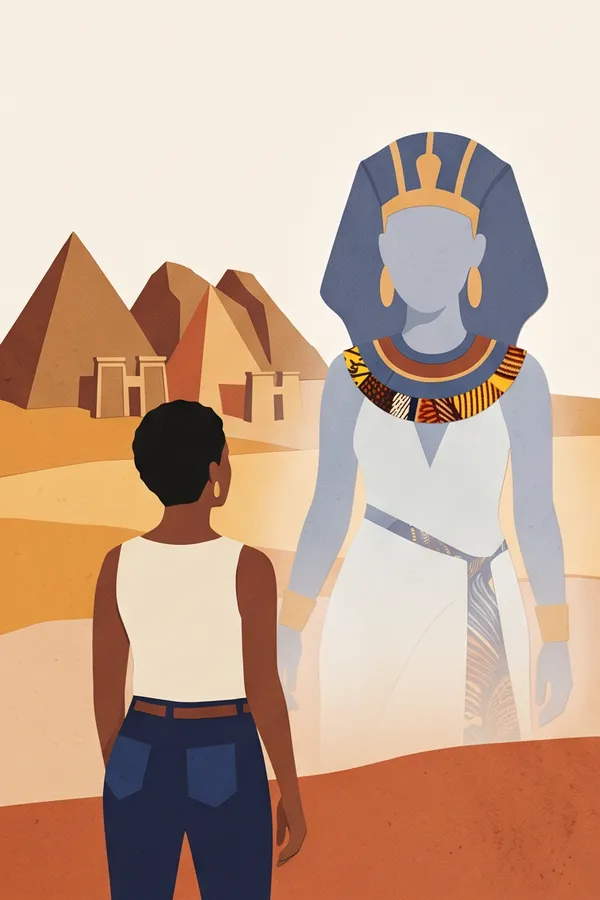
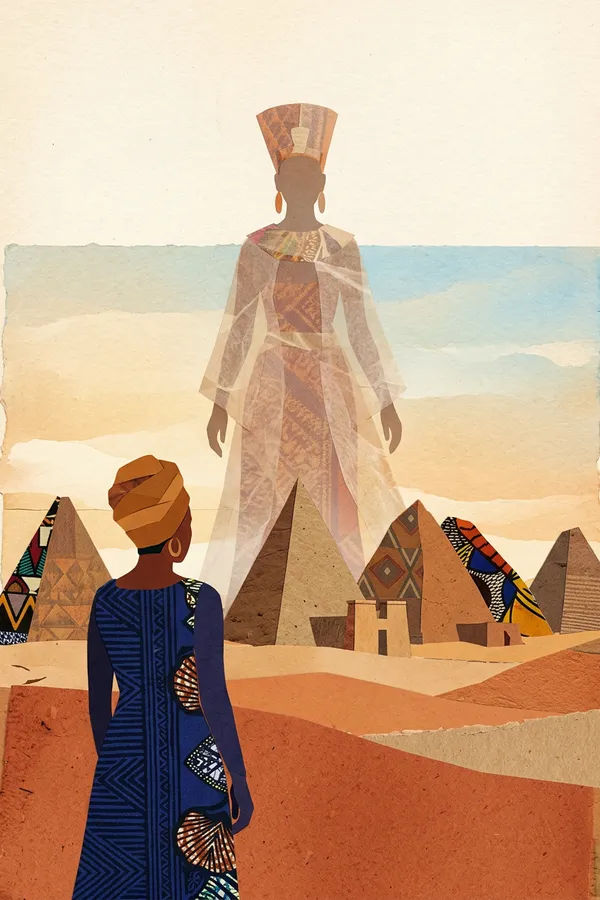
Mention « épuisé » retirée quand elle n'est pas prouvée, deux couvertures refaites, consignes des lots précisées

diff --git a/src/lib/demo/lots/lot-01.ts b/src/lib/demo/lots/lot-01.ts
@@ -336,7 +336,6 @@ export const livres: Book[] = [
     isbn: null,
     format: null,
     awards: [],
-    outOfPrint: true,
   }),
   livre({
     slug: "anthologie-de-la-nouvelle-poesie-negre-et-malgache",
@@ -379,7 +378,6 @@ export const livres: Book[] = [
     isbn: null,
     format: null,
     awards: [],
-    outOfPrint: true,
   }),
   livre({
     slug: "la-belle-histoire-de-leuk-le-lievre",
@@ -422,7 +420,6 @@ export const livres: Book[] = [
     isbn: null,
     format: null,
     awards: [],
-    outOfPrint: true,
   }),
   livre({
     slug: "nation-et-voie-africaine-du-socialisme",
@@ -444,7 +441,6 @@ export const livres: Book[] = [
     isbn: null,
     format: null,
     awards: [],
-    outOfPrint: true,
   }),
   livre({
     slug: "liberte-1-negritude-et-humanisme",
@@ -467,7 +463,6 @@ export const livres: Book[] = [
     isbn: "9782020022422",
     format: null,
     awards: [],
-    outOfPrint: true,
   }),
   livre({
     slug: "les-fondements-de-l-africanite",
@@ -489,7 +484,6 @@ export const livres: Book[] = [
     isbn: null,
     format: null,
     awards: [],
-    outOfPrint: true,
   }),
   livre({
     slug: "liberte-2-nation-et-voie-africaine-du-socialisme",
@@ -512,7 +506,6 @@ export const livres: Book[] = [
     isbn: "9782020023047",
     format: null,
     awards: [],
-    outOfPrint: true,
   }),
   livre({
     slug: "lettres-d-hivernage",
@@ -534,7 +527,6 @@ export const livres: Book[] = [
     isbn: null,
     format: null,
     awards: [],
-    outOfPrint: true,
   }),
   livre({
     slug: "liberte-3-negritude-et-civilisation-de-l-universel",
@@ -557,7 +549,6 @@ export const livres: Book[] = [
     isbn: "9782020046602",
     format: null,
     awards: [],
-    outOfPrint: true,
   }),
   livre({
     slug: "elegies-majeures",
@@ -580,7 +571,6 @@ export const livres: Book[] = [
     isbn: "9782020052313",
     format: null,
     awards: [],
-    outOfPrint: true,
   }),
   livre({
     slug: "la-poesie-de-l-action",
@@ -603,7 +593,6 @@ export const livres: Book[] = [
     isbn: "9782234006201",
     format: null,
     awards: [],
-    outOfPrint: true,
   }),
   livre({
     slug: "liberte-4-socialisme-et-planification",
@@ -626,7 +615,6 @@ export const livres: Book[] = [
     isbn: "9782020065542",
     format: null,
     awards: [],
-    outOfPrint: true,
   }),
   livre({
     slug: "ce-que-je-crois",
@@ -692,7 +680,6 @@ export const livres: Book[] = [
     isbn: "9782020191005",
     format: null,
     awards: [],
-    outOfPrint: true,
   }),
 
   // ------------------------------------------------------------------ Mohamed Mbougar Sarr
@@ -1085,7 +1072,6 @@ export const livres: Book[] = [
     isbn: "9782912485816",
     format: null,
     awards: [],
-    outOfPrint: true,
   }),
   livre({
     slug: "kaveena",

diff --git a/src/lib/demo/lots/lot-04b.ts b/src/lib/demo/lots/lot-04b.ts
@@ -56,7 +56,6 @@ export const livres: Book[] = [
     isbn: null,
     format: null,
     awards: [],
-    outOfPrint: true,
   }),
   livre({
     slug: "mistiriijo-la-mangeuse-d-ames",
@@ -79,7 +78,6 @@ export const livres: Book[] = [
     isbn: null,
     format: null,
     awards: [],
-    outOfPrint: true,
   }),
   livre({
     slug: "coeur-du-sahel",
@@ -145,7 +143,6 @@ export const livres: Book[] = [
     isbn: "9782842614393",
     format: "grand-format",
     awards: [],
-    outOfPrint: true,
   }),
   livre({
     slug: "l-invention-du-beau-regard",
@@ -233,7 +230,6 @@ export const livres: Book[] = [
     isbn: "9782848761770",
     format: "grand-format",
     awards: [],
-    outOfPrint: true,
   }),
   livre({
     slug: "la-saison-des-prunes",
@@ -255,7 +251,6 @@ export const livres: Book[] = [
     isbn: "9782848762883",
     format: "grand-format",
     awards: [],
-    outOfPrint: true,
   }),
   livre({
     slug: "empreintes-de-crabe",
@@ -277,7 +272,6 @@ export const livres: Book[] = [
     isbn: "9782709662499",
     format: "grand-format",
     awards: [],
-    outOfPrint: true,
   }),
   livre({
     slug: "la-revolte-anglophone",
@@ -736,7 +730,6 @@ export const livres: Book[] = [
     isbn: null,
     format: null,
     awards: [],
-    outOfPrint: true,
   }),
   livre({
     slug: "du-rituel-a-la-scene-chez-les-bassa-du-cameroun",
@@ -758,7 +751,6 @@ export const livres: Book[] = [
     isbn: null,
     format: null,
     awards: [],
-    outOfPrint: true,
   }),
   livre({
     slug: "orphee-dafric",
@@ -823,7 +815,6 @@ export const livres: Book[] = [
     isbn: null,
     format: null,
     awards: [],
-    outOfPrint: true,
   }),
   livre({
     slug: "singue-mura",
@@ -846,7 +837,6 @@ export const livres: Book[] = [
     isbn: null,
     format: null,
     awards: [],
-    outOfPrint: true,
   }),
   livre({
     slug: "un-touareg-s-est-marie-a-une-pygmee",
@@ -869,7 +859,6 @@ export const livres: Book[] = [
     isbn: null,
     format: null,
     awards: [],
-    outOfPrint: true,
   }),
 
   // ------------------------------------------------------------ Francis Bebey
@@ -893,7 +882,6 @@ export const livres: Book[] = [
     isbn: null,
     format: null,
     awards: [],
-    outOfPrint: true,
   }),
   livre({
     slug: "la-poupee-ashanti",
@@ -915,7 +903,6 @@ export const livres: Book[] = [
     isbn: null,
     format: null,
     awards: [],
-    outOfPrint: true,
   }),
   livre({
     slug: "le-roi-albert-d-effidi",
@@ -937,7 +924,6 @@ export const livres: Book[] = [
     isbn: null,
     format: null,
     awards: [],
-    outOfPrint: true,
   }),
   livre({
     slug: "le-ministre-et-le-griot",

diff --git a/src/lib/demo/lots/lot-04.ts b/src/lib/demo/lots/lot-04.ts
@@ -179,7 +179,6 @@ export const livres: Book[] = [
     isbn: "9782842614331",
     format: "poche",
     awards: [],
-    outOfPrint: true,
   }),
   livre({
     slug: "les-deux-meres-de-guillaume-ismael-dzewatama",
@@ -308,7 +307,6 @@ export const livres: Book[] = [
     isbn: "9782260010999",
     format: null,
     awards: [],
-    outOfPrint: true,
   }),
   livre({
     slug: "trop-de-soleil-tue-l-amour",
@@ -394,7 +392,6 @@ export const livres: Book[] = [
     isbn: "9782915129083",
     format: null,
     awards: [],
-    outOfPrint: true,
   }),
 
   // ------------------------------------------------------------------ Ferdinand Oyono
@@ -439,7 +436,6 @@ export const livres: Book[] = [
     isbn: "9782264008817",
     format: "poche",
     awards: [],
-    outOfPrint: true,
   }),
 
   // ------------------------------------------------------------------ Calixthe Beyala
@@ -505,7 +501,6 @@ export const livres: Book[] = [
     isbn: "9782290046012",
     format: "poche",
     awards: [],
-    outOfPrint: true,
   }),
   livre({
     slug: "le-petit-prince-de-belleville",
@@ -593,7 +588,6 @@ export const livres: Book[] = [
     isbn: null,
     format: null,
     awards: [],
-    outOfPrint: true,
   }),
   livre({
     slug: "la-petite-fille-du-reverbere",
@@ -657,7 +651,6 @@ export const livres: Book[] = [
     isbn: "9782842702328",
     format: null,
     awards: [],
-    outOfPrint: true,
   }),
   livre({
     slug: "comment-cuisiner-son-mari-a-l-africaine",
@@ -806,7 +799,6 @@ export const livres: Book[] = [
     isbn: "9782226181909",
     format: "grand-format",
     awards: [],
-    outOfPrint: true,
   }),
   livre({
     slug: "le-christ-selon-l-afrique",

diff --git a/src/lib/demo/lots/lot-02b.ts b/src/lib/demo/lots/lot-02b.ts
@@ -1009,7 +1009,6 @@ export const livres: Book[] = [
     isbn: "9782842613952",
     format: "poche",
     awards: [],
-    outOfPrint: true,
   }),
   livre({
     slug: "les-mille-et-une-bibles-du-sexe",

diff --git a/docs/LOTS.md b/docs/LOTS.md
@@ -34,7 +34,8 @@ la consigne du lot. Pas de commit.
 - `quote` : `null`. `awards` : seulement les prix vérifiés.
 - Traductions : contributeur `{ role: "traducteur", name: "…", authorSlug: null }`, traducteur vérifié.
 - `adaptations` (facultatif) : seulement les adaptations vérifiées (film, série, théâtre, BD…).
-- `featured: false`, `isPublished: true`, `addedAt: "2026-10-02"`, `outOfPrint: true` si le livre est épuisé chez l'éditeur (on le garde : il se trouve d'occasion), `subtitle: null` sauf vrai sous-titre.
+- `featured: false`, `isPublished: true`, `addedAt: "2026-10-02"`, `subtitle: null` sauf vrai sous-titre.
+- `outOfPrint: true` **seulement si c'est prouvé** (éditeur ou libraire qui l'indique « indisponible » / « épuisé », ou notice qui le dit). Une simple estimation (édition ancienne, pas trouvée) ne suffit pas : dans le doute, ne pas mettre le champ.
 - Slugs : titre en minuscules, sans accents, mots séparés par « - » (ex. `les-soleils-des-independances`).
 - Prendre `src/lib/demo/lots/lot-01.ts` comme modèle exact du format (helper `livre`, 6 fiches déjà écrites).
 
@@ -57,7 +58,8 @@ Les couvertures sont produites **4 par 4** sur une seule image (30 crédits la p
    > logo, no visible faces.
 
 3. Lancer plusieurs planches à la fois, relever chaque résultat avec `openart_creation_get` (pas de `sleep`), télécharger
-   la planche (`curl -s -o planche.png URL`, dans le dossier scratchpad de la session, jamais dans le projet), puis la
+   la planche (`curl -s -o planche.png URL`, dans **son propre sous-dossier** `scratchpad/lot-XX/` : d'autres agents
+   travaillent en même temps dans le scratchpad ; jamais dans le projet), puis la
    découper depuis la racine du projet :
    `node scripts/decouper-planche.mjs planche.png 2 2 slug1 slug2 slug3 slug4`
    (ordre : haut gauche, haut droite, bas gauche, bas droite). Le script écrit `public/illustrations/<slug>.webp`.
@@ -70,6 +72,12 @@ Les couvertures sont produites **4 par 4** sur une seule image (30 crédits la p
    `node -e "require('sharp')('IN.png').resize(600,900).webp({quality:80}).toFile('public/illustrations/SLUG.webp')"`.
 5. Ajouter le slug à `illustres` dans le fichier du lot.
 6. Ne pas dépasser le nombre de planches indiqué dans la consigne du lot.
+
+## Nouveaux auteurs (lot 09)
+
+Fiche `Author` complète dans `auteurs` (modèle : `src/lib/demo/auteurs-bd.ts`), pays **déjà présent** dans
+`src/lib/countries.ts` (sinon on écarte l'auteur et on le signale). Photo seulement si elle est libre de droits
+(Wikimedia Commons, licence et auteur notés dans `photos`), fichier dans `public/authors/<slug>.webp`.
 
 ## Confidentialité
 
